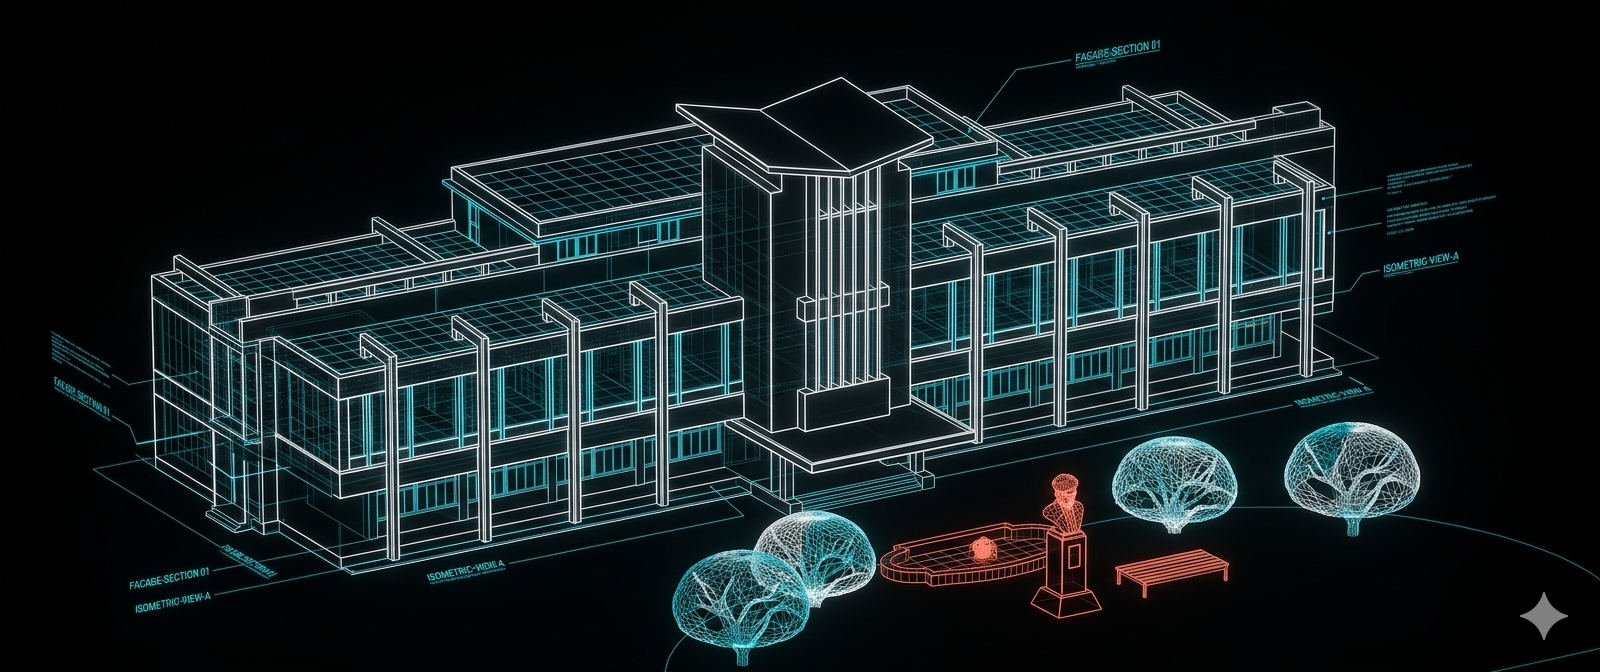
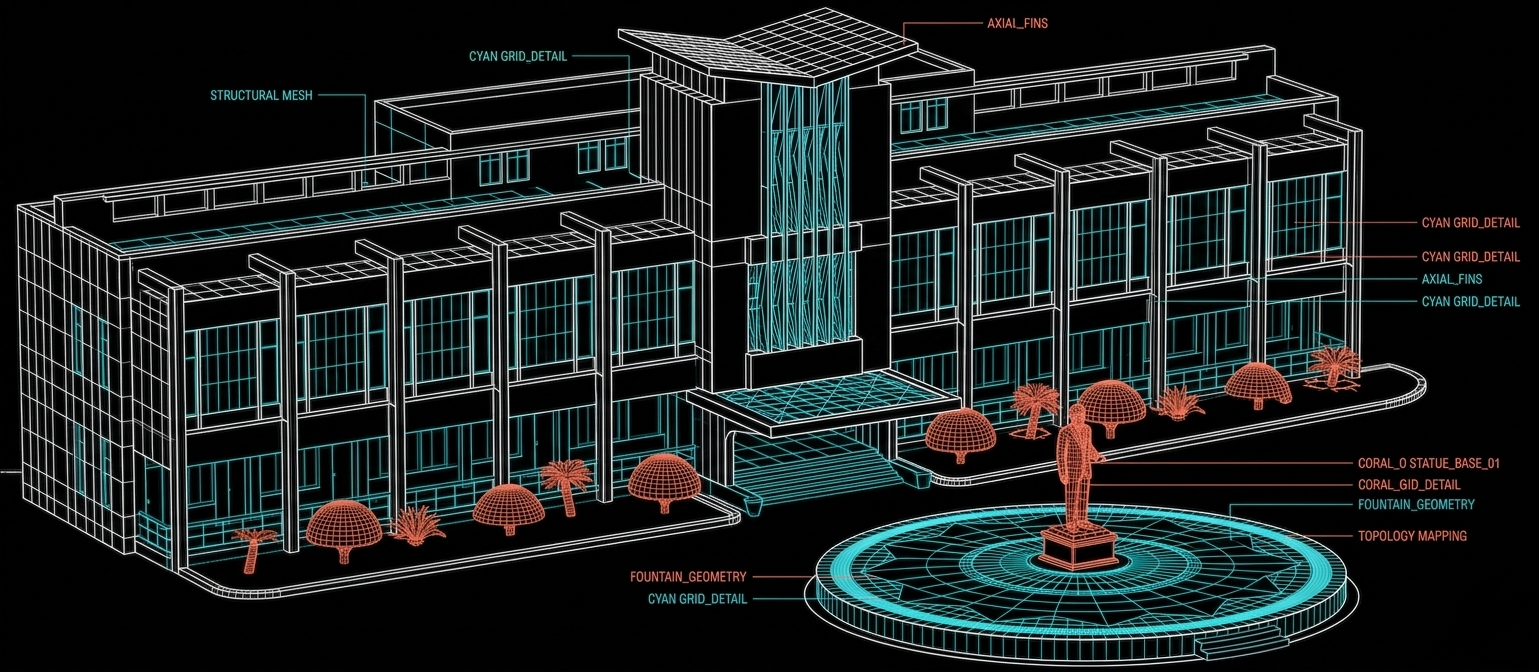
Fix hero image framing

diff --git a/index.html b/index.html
@@ -250,7 +250,8 @@ body::before {
   background-image:
     linear-gradient(90deg, rgba(13,14,13,0.92) 0%, rgba(13,14,13,0.68) 45%, rgba(13,14,13,0.3) 100%),
     url("hero.png");
-  background-size: cover;
+  background-color: var(--bg);
+  background-size: contain;
   background-position: center;
   background-repeat: no-repeat;
 }
@@ -333,6 +334,16 @@ body::before {
   box-shadow: 0 8px 30px var(--accent-glow);
 }
 .hero-cta svg { width: 16px; height: 16px; }
+
+@media (max-width: 768px) {
+  .hero {
+    background-image:
+      linear-gradient(180deg, rgba(13,14,13,0.92) 0%, rgba(13,14,13,0.72) 48%, rgba(13,14,13,0.86) 100%),
+      url("hero.png");
+    background-size: auto 100%;
+    background-position: 55% center;
+  }
+}
 
 /* ═══════════════════════════════════════════
    SECTION HEADERS